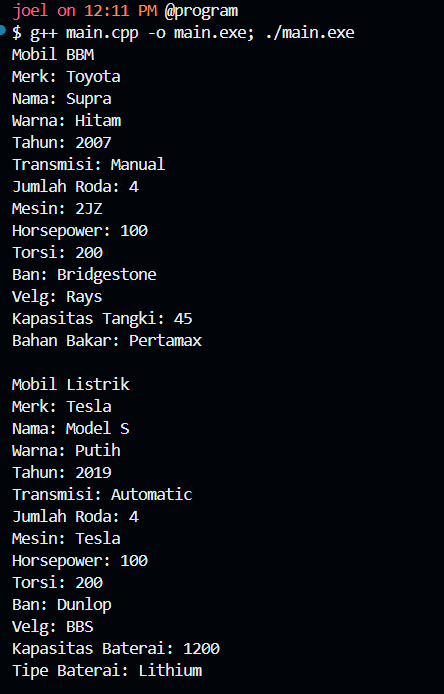
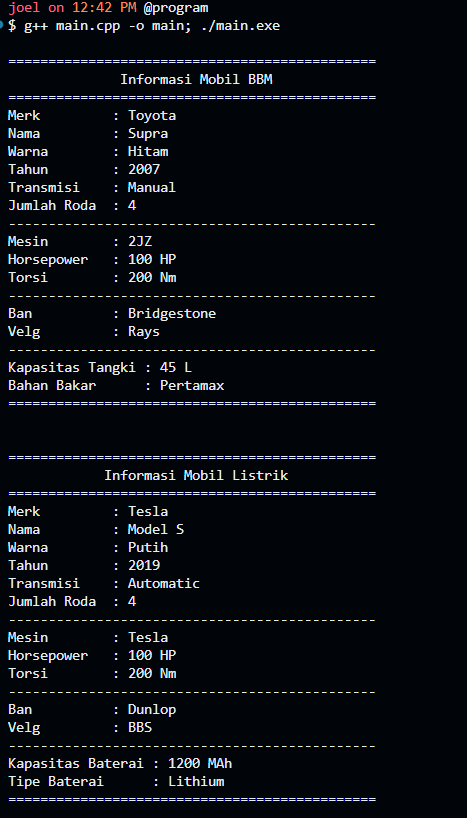
update main

Changed region(s): [[0.0, 0.0, 0.7905, 0.5144], [0.0, 0.5447, 0.7905, 0.9986]]

diff --git a/cpp/program/Main.cpp b/cpp/program/Main.cpp
@@ -7,38 +7,53 @@ using namespace std;
 int main(){
     // Membuat objek MobilBbm
     MobilBbm mobilBbm("Toyota", "Supra", "Hitam", 2007, "Manual", 4, Mesin("2JZ", 100, 200), {Ban("Bridgestone", "Ecopia", 17), Ban("Bridgestone", "Ecopia", 17), Ban("Bridgestone", "Ecopia", 17), Ban("Bridgestone", "Ecopia", 17)}, {Velg("Rays", "Volk Racign TE-37","Silver", 17), Velg("Rays", "Volk Racign TE-37","Silver", 17), Velg("Rays", "Volk Racign TE-37","Silver", 17), Velg("Rays", "Volk Racign TE-37","Silver", 17) }, 45, "Pertamax");
-    cout << "Mobil BBM" << endl;
-    cout << "Merk: " << mobilBbm.get_merk() << endl;
-    cout << "Nama: " << mobilBbm.get_nama() << endl;
-    cout << "Warna: " << mobilBbm.get_warna() << endl;
-    cout << "Tahun: " << mobilBbm.get_tahun() << endl;
-    cout << "Transmisi: " << mobilBbm.get_transmisi() << endl;
-    cout << "Jumlah Roda: " << mobilBbm.get_jumlahroda() << endl;
-    cout << "Mesin: " << mobilBbm.get_mesin().get_nama() << endl;
-    cout << "Horsepower: " << mobilBbm.get_mesin().get_tenaga() << endl;
-    cout << "Torsi: " << mobilBbm.get_mesin().get_torsi() << endl;
-    cout << "Ban: " << mobilBbm.get_ban()[0].get_merk() << endl; 
-    cout << "Velg: " << mobilBbm.get_velg()[0].get_merk() << endl;
-    cout << "Kapasitas Tangki: " << mobilBbm.getKapasitasTangki() << endl;
-    cout << "Bahan Bakar: " << mobilBbm.getBahanBakar() << endl;
+    // Tampilan dekoratif menggunakan garis dan judul
+    cout << "\n==============================================" << endl;
+    cout << "              Informasi Mobil BBM             " << endl;
+    cout << "==============================================" << endl;
+    cout << "Merk         : " << mobilBbm.get_merk() << endl;
+    cout << "Nama         : " << mobilBbm.get_nama() << endl;
+    cout << "Warna        : " << mobilBbm.get_warna() << endl;
+    cout << "Tahun        : " << mobilBbm.get_tahun() << endl;
+    cout << "Transmisi    : " << mobilBbm.get_transmisi() << endl;
+    cout << "Jumlah Roda  : " << mobilBbm.get_jumlahroda() << endl;
+    cout << "----------------------------------------------" << endl;
+    cout << "Mesin        : " << mobilBbm.get_mesin().get_nama() << endl;
+    cout << "Horsepower   : " << mobilBbm.get_mesin().get_tenaga() << " HP" << endl;
+    cout << "Torsi        : " << mobilBbm.get_mesin().get_torsi() << " Nm" << endl;
+    cout << "----------------------------------------------" << endl;
+    cout << "Ban          : " << mobilBbm.get_ban()[0].get_merk() << endl;
+    cout << "Velg         : " << mobilBbm.get_velg()[0].get_merk() << endl;
+    cout << "----------------------------------------------" << endl;
+    cout << "Kapasitas Tangki : " << mobilBbm.getKapasitasTangki() << " L" << endl;
+    cout << "Bahan Bakar      : " << mobilBbm.getBahanBakar() << endl;
+    cout << "==============================================" << endl;
     cout << endl;
 
     // Membuat objek MobilListrik
     MobilListrik mobilListrik("Tesla", "Model S", "Putih", 2019, "Automatic", 4, Mesin("Tesla", 100, 200), {Ban("Dunlop", "SP31", 17), Ban("Dunlop", "SP31", 17), Ban("Dunlop", "SP31", 17), Ban("Dunlop", "SP31", 17)}, {Velg("BBS", "CHR-II","Silver", 17), Velg("Rays", "CHR-II","Silver", 17), Velg("Rays", "CHR-II","Silver", 17), Velg("Rays", "CHR-II","Silver", 17) }, 1200, "Lithium");
-    cout << "Mobil Listrik" << endl;
-    cout << "Merk: " << mobilListrik.get_merk() << endl;
-    cout << "Nama: " << mobilListrik.get_nama() << endl;
-    cout << "Warna: " << mobilListrik.get_warna() << endl;
-    cout << "Tahun: " << mobilListrik.get_tahun() << endl;
-    cout << "Transmisi: " << mobilListrik.get_transmisi() << endl;
-    cout << "Jumlah Roda: " << mobilListrik.get_jumlahroda() << endl;
-    cout << "Mesin: " << mobilListrik.get_mesin().get_nama() << endl;
-    cout << "Horsepower: " << mobilListrik.get_mesin().get_tenaga() << endl;
-    cout << "Torsi: " << mobilListrik.get_mesin().get_torsi() << endl;
-    cout << "Ban: " << mobilListrik.get_ban()[0].get_merk() << endl;
-    cout << "Velg: " << mobilListrik.get_velg()[0].get_merk() << endl;
-    cout << "Kapasitas Baterai: " << mobilListrik.get_kapasitasBaterai() << endl;
-    cout << "Tipe Baterai: " << mobilListrik.get_tipeBaterai() << endl;
+    // Tampilan dekoratif menggunakan garis dan judul
+    cout << "\n==============================================" << endl;
+    cout << "            Informasi Mobil Listrik           " << endl;
+    cout << "==============================================" << endl;
+    cout << "Merk         : " << mobilListrik.get_merk() << endl;
+    cout << "Nama         : " << mobilListrik.get_nama() << endl;
+    cout << "Warna        : " << mobilListrik.get_warna() << endl;
+    cout << "Tahun        : " << mobilListrik.get_tahun() << endl;
+    cout << "Transmisi    : " << mobilListrik.get_transmisi() << endl;
+    cout << "Jumlah Roda  : " << mobilListrik.get_jumlahroda() << endl;
+    cout << "----------------------------------------------" << endl;
+    cout << "Mesin        : " << mobilListrik.get_mesin().get_nama() << endl;
+    cout << "Horsepower   : " << mobilListrik.get_mesin().get_tenaga() << " HP" << endl;
+    cout << "Torsi        : " << mobilListrik.get_mesin().get_torsi() << " Nm" << endl;
+    cout << "----------------------------------------------" << endl;
+    cout << "Ban          : " << mobilListrik.get_ban()[0].get_merk() << endl;
+    cout << "Velg         : " << mobilListrik.get_velg()[0].get_merk() << endl;
+    cout << "----------------------------------------------" << endl;
+    cout << "Kapasitas Baterai : " << mobilListrik.get_kapasitasBaterai() << " MAh" << endl;
+    cout << "Tipe Baterai      : " << mobilListrik.get_tipeBaterai() << endl;
+    cout << "==============================================" << endl;
     cout << endl;
+    
     return 0;
 }
